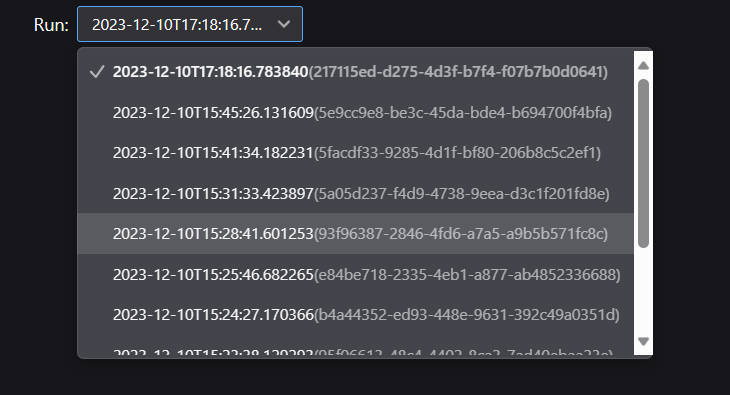
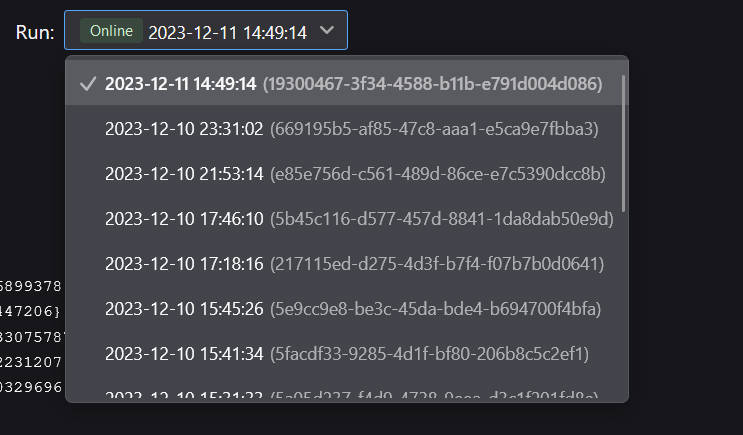
added name to runid

Changed region(s): [[0.0, 0.0, 0.9041, 0.9418]]

diff --git a/neetbox/_daemon/server/history/_db.py b/neetbox/_daemon/server/history/_db.py
@@ -9,7 +9,7 @@ from neetbox._daemon._protocol import *
 from neetbox.logging import logger
 from neetbox.logging.formatting import LogStyle
 
-logger = logger("NEETBOX HISTORY", LogStyle(skip_writers=["ws", "file"]))
+logger = logger("NEETBOX", LogStyle(skip_writers=["ws", "file"]))
 
 
 class QueryCondition:
@@ -171,7 +171,8 @@ class DBConnection:
         new_dbc = super().__new__(cls, **kwargs)
         # connect to sqlite
         new_dbc.connection = sqlite3.connect(path, check_same_thread=False, isolation_level=None)
-        new_dbc.connection.execute("pragma journal_mode=wal")
+        new_dbc.connection.execute("pragma journal_mode=wal")  # set journal mode WAL
+        new_dbc.connection.execute("PRAGMA foreign_keys = ON")  # enable foreign keys features
         new_dbc._inited_tables = collections.defaultdict(lambda: False)
         # check neetbox version
         _db_file_project_id = new_dbc.fetch_db_project_id(project_id)
@@ -262,7 +263,7 @@ class DBConnection:
 
     def fetch_id_of_run_id(self, run_id: str, timestamp: str = None):
         if not self._inited_tables[RUN_IDS_TABLE_NAME]:  # create if there is no version table
-            sql_query = f"CREATE TABLE IF NOT EXISTS {RUN_IDS_TABLE_NAME} ( {ID_COLUMN_NAME} INTEGER PRIMARY KEY AUTOINCREMENT, {RUN_ID_COLUMN_NAME} TEXT NON NULL, {TIMESTAMP_COLUMN_NAME} TEXT NON NULL, CONSTRAINT run_id_unique UNIQUE ({RUN_ID_COLUMN_NAME}));"
+            sql_query = f"CREATE TABLE IF NOT EXISTS {RUN_IDS_TABLE_NAME} ( {ID_COLUMN_NAME} INTEGER PRIMARY KEY AUTOINCREMENT, {RUN_ID_COLUMN_NAME} TEXT NON NULL, {TIMESTAMP_COLUMN_NAME} TEXT NON NULL, {NAME_COLUMN_NAME} TEXT, CONSTRAINT run_id_unique UNIQUE ({RUN_ID_COLUMN_NAME}));"
             self._execute(sql_query)
             self._inited_tables[RUN_IDS_TABLE_NAME] = True
         sql_query = f"SELECT {ID_COLUMN_NAME} FROM {RUN_IDS_TABLE_NAME} WHERE {RUN_ID_COLUMN_NAME} == '{run_id}'"
@@ -274,6 +275,21 @@ class DBConnection:
             return lastrowid
         return _id[0]
 
+    def fetch_name_of_run_id(self, run_id: str, name: str = None):
+        id = self.fetch_id_of_run_id(run_id=run_id)
+        if name:  # if update name
+            sql_query = (
+                f"UPDATE {RUN_IDS_TABLE_NAME} SET {NAME_COLUMN_NAME} = ? WHERE {ID_COLUMN_NAME} = ?"
+            )
+            _, _ = self._execute(sql_query, name, id)
+        # get name
+        sql_query = (
+            f"SELECT {NAME_COLUMN_NAME} FROM {RUN_IDS_TABLE_NAME} WHERE {ID_COLUMN_NAME} == {id}"
+        )
+        name, _ = self._query(sql_query, fetch=DbQueryFetchType.ONE)
+        name = name or run_id  # if does not have a name, use runid itself
+        return name
+
     def run_id_of_id(self, id_of_run_id):
         sql_query = f"SELECT {RUN_ID_COLUMN_NAME} FROM {RUN_IDS_TABLE_NAME} WHERE {ID_COLUMN_NAME} == {id_of_run_id}"
         run_id, _ = self._query(sql_query, fetch=DbQueryFetchType.ONE)
@@ -282,10 +298,14 @@ class DBConnection:
     def get_run_ids(self):
         if not self.table_exist(RUN_IDS_TABLE_NAME):
             raise RuntimeError("should not get run id of id before run id table creation")
-        sql_query = f"SELECT {RUN_ID_COLUMN_NAME},{TIMESTAMP_COLUMN_NAME} FROM {RUN_IDS_TABLE_NAME}"
+        sql_query = f"SELECT {RUN_ID_COLUMN_NAME},{TIMESTAMP_COLUMN_NAME},{NAME_COLUMN_NAME} FROM {RUN_IDS_TABLE_NAME}"
         result, _ = self._query(sql_query)
-        result = [(run_id, timestamp) for run_id, timestamp in result]
+        result = [(run_id, timestamp, name) for run_id, timestamp, name in result]
         return result
+
+    def delete_run_id(self, run_id: str):
+        sql_query = f"DELETE FROM {RUN_IDS_TABLE_NAME} where {RUN_ID_COLUMN_NAME} = ?"
+        _, _ = self._execute(sql_query, run_id)
 
     def get_series_of_table(self, table_name, run_id=None):
         if not self.table_exist(table_name):
@@ -313,7 +333,7 @@ class DBConnection:
         if run_id:
             run_id = self.fetch_id_of_run_id(run_id, timestamp=timestamp)
         if not self._inited_tables[table_name]:  # create if there is no version table
-            sql_query = f"CREATE TABLE IF NOT EXISTS {table_name} ( {ID_COLUMN_NAME} INTEGER PRIMARY KEY AUTOINCREMENT, {TIMESTAMP_COLUMN_NAME} TEXT NON NULL, {SERIES_COLUMN_NAME} TEXT, {RUN_ID_COLUMN_NAME} INTEGER, {JSON_COLUMN_NAME} TEXT NON NULL, FOREIGN KEY({RUN_ID_COLUMN_NAME}) REFERENCES {RUN_IDS_TABLE_NAME}({ID_COLUMN_NAME}));"
+            sql_query = f"CREATE TABLE IF NOT EXISTS {table_name} ( {ID_COLUMN_NAME} INTEGER PRIMARY KEY AUTOINCREMENT, {TIMESTAMP_COLUMN_NAME} TEXT NON NULL, {SERIES_COLUMN_NAME} TEXT, {RUN_ID_COLUMN_NAME} INTEGER, {JSON_COLUMN_NAME} TEXT NON NULL, FOREIGN KEY({RUN_ID_COLUMN_NAME}) REFERENCES {RUN_IDS_TABLE_NAME}({ID_COLUMN_NAME}) ON DELETE CASCADE);"
             self._execute(sql_query)
             sql_query = f"CREATE INDEX IF NOT EXISTS series_and_runid_index ON {table_name} ({SERIES_COLUMN_NAME}, {RUN_ID_COLUMN_NAME})"
             self._execute(sql_query)
@@ -351,7 +371,7 @@ class DBConnection:
         if run_id:
             run_id = self.fetch_id_of_run_id(run_id)
         if not self._inited_tables[STATUS_TABLE_NAME]:  # create if there is no version table
-            sql_query = f"CREATE TABLE IF NOT EXISTS {STATUS_TABLE_NAME} ({ID_COLUMN_NAME} INTEGER PRIMARY KEY,{RUN_ID_COLUMN_NAME} INTEGER NON NULL, {SERIES_COLUMN_NAME} TEXT NON NULL, {JSON_COLUMN_NAME} TEXT NON NULL, UNIQUE({RUN_ID_COLUMN_NAME}, {SERIES_COLUMN_NAME}) ON CONFLICT REPLACE, FOREIGN KEY({RUN_ID_COLUMN_NAME}) REFERENCES {RUN_IDS_TABLE_NAME}({ID_COLUMN_NAME}));"
+            sql_query = f"CREATE TABLE IF NOT EXISTS {STATUS_TABLE_NAME} ({ID_COLUMN_NAME} INTEGER PRIMARY KEY,{RUN_ID_COLUMN_NAME} INTEGER NON NULL, {SERIES_COLUMN_NAME} TEXT NON NULL, {JSON_COLUMN_NAME} TEXT NON NULL, UNIQUE({RUN_ID_COLUMN_NAME}, {SERIES_COLUMN_NAME}) ON CONFLICT REPLACE, FOREIGN KEY({RUN_ID_COLUMN_NAME}) REFERENCES {RUN_IDS_TABLE_NAME}({ID_COLUMN_NAME}) ON DELETE CASCADE);"
             self._execute(sql_query)
             self._inited_tables[STATUS_TABLE_NAME] = True
         sql_query = f"INSERT OR REPLACE INTO {STATUS_TABLE_NAME}({RUN_ID_COLUMN_NAME},{SERIES_COLUMN_NAME}, {JSON_COLUMN_NAME}) VALUES (?, ?, ?)"
@@ -396,8 +416,8 @@ class DBConnection:
         if isinstance(meta_data, dict):
             meta_data = json.dumps(meta_data)
 
-        if not self._inited_tables[table_name]:  # create if there is no version table
-            sql_query = f"CREATE TABLE IF NOT EXISTS {table_name} ( {ID_COLUMN_NAME} INTEGER PRIMARY KEY AUTOINCREMENT, {TIMESTAMP_COLUMN_NAME} TEXT NON NULL, {SERIES_COLUMN_NAME} TEXT, {RUN_ID_COLUMN_NAME} INTEGER, {METADATA_COLUMN_NAME} TEXT, {BLOB_COLUMN_NAME} BLOB NON NULL, FOREIGN KEY({RUN_ID_COLUMN_NAME}) REFERENCES {RUN_IDS_TABLE_NAME}({ID_COLUMN_NAME}));"
+        if not self._inited_tables[table_name]:  # create if not exist
+            sql_query = f"CREATE TABLE IF NOT EXISTS {table_name} ( {ID_COLUMN_NAME} INTEGER PRIMARY KEY AUTOINCREMENT, {TIMESTAMP_COLUMN_NAME} TEXT NON NULL, {SERIES_COLUMN_NAME} TEXT, {RUN_ID_COLUMN_NAME} INTEGER, {METADATA_COLUMN_NAME} TEXT, {BLOB_COLUMN_NAME} BLOB NON NULL, FOREIGN KEY({RUN_ID_COLUMN_NAME}) REFERENCES {RUN_IDS_TABLE_NAME}({ID_COLUMN_NAME}) ON DELETE CASCADE);"
             self._execute(sql_query)
             sql_query = f"CREATE INDEX IF NOT EXISTS series_and_runid_index ON {table_name} ({SERIES_COLUMN_NAME}, {RUN_ID_COLUMN_NAME})"
             self._execute(sql_query)

diff --git a/neetbox/_daemon/server/_flask_server.py b/neetbox/_daemon/server/_flask_server.py
@@ -11,22 +11,23 @@ from threading import Thread
 from typing import Union
 
 import werkzeug
-
-werkzeug_log = logging.getLogger("werkzeug")
-werkzeug_log.setLevel(logging.ERROR)  # disable flask http call logs
 from flask import Response, abort, json, redirect, request, send_from_directory
 
 from neetbox._daemon._protocol import *
 from neetbox._daemon.server._bridge import Bridge
-from neetbox.logging import LogStyle, logger
 
 from .history import *
 
-__PROC_NAME = "NEETBOX SERVER"
-logger = logger(__PROC_NAME, LogStyle(skip_writers=["ws"]))
+werkzeug_log = logging.getLogger("werkzeug")
+werkzeug_log.setLevel(logging.ERROR)  # disable flask http call logs
 
 
 def get_flask_server(debug=False):
+    __PROC_NAME = "NEETBOX"
+    from neetbox.logging import LogStyle, logger
+
+    logger = logger(__PROC_NAME, LogStyle(skip_writers=["ws"]))
+
     if debug:
         logger.log(f"Running with debug, using APIFlask")
         from apiflask import APIFlask
@@ -67,7 +68,7 @@ def get_flask_server(debug=False):
 
     def _project_status_from_bridge(bridge: Bridge):
         status = bridge.get_status()
-        last_run_id = bridge.get_run_ids()[0][0]
+        last_run_id = bridge.get_run_ids()[-1][0]
         config_last_run = bridge.get_status(run_id=last_run_id, series="config")
         return {
             PROJECT_ID_KEY: bridge.project_id,
@@ -105,13 +106,6 @@ def get_flask_server(debug=False):
             condition=request.args.get("condition"),
         )
 
-    @app.route(f"{FRONTEND_API_ROOT}/project/<project_id>/run/<run_id>", methods=["GET"])
-    def get_status_of(project_id, run_id):
-        if not Bridge.has(project_id):
-            abort(404)
-        result = Bridge.of_id(project_id).get_status(run_id=run_id)
-        return result
-
     @app.route(f"{FRONTEND_API_ROOT}/project/<project_id>/series/<table_name>", methods=["GET"])
     def get_series_list_of(project_id: str, table_name: str):  # client side function
         if not Bridge.has(project_id):
@@ -126,8 +120,31 @@ def get_flask_server(debug=False):
         if not Bridge.has(project_id):
             abort(404)
         result = Bridge.of_id(project_id).get_run_ids()
-        result = [{"id": r[0], "timestamp": r[1]} for r in result]
+        result = [{ID_KEY: r[0], TIMESTAMP_KEY: r[1], NAME_KEY: r[2]} for r in result]
         return result
+
+    @app.route(f"{FRONTEND_API_ROOT}/project/<project_id>/run/<run_id>", methods=["GET"])
+    def get_status_of(project_id, run_id):
+        if not Bridge.has(project_id):
+            abort(404, {ERROR_KEY: "project id not found"})
+        result = Bridge.of_id(project_id).get_status(run_id=run_id)
+        return result
+
+    @app.route(f"{FRONTEND_API_ROOT}/project/<project_id>/run/<run_id>", methods=["PUT"])
+    def set_get_name_of_run_id(project_id: str, run_id: str):
+        name = request.json.get("name")
+        bridge = Bridge.of_id(project_id)
+        name = bridge.historyDB.fetch_name_of_run_id(run_id=run_id, name=name)
+        return {RESULT_KEY: "success"}
+
+    @app.route(f"{FRONTEND_API_ROOT}/project/<project_id>/run/<run_id>", methods=["DELETE"])
+    def delete_run_id(project_id: str, run_id: str):
+        bridge = Bridge.of_id(project_id)
+        last_run_id = bridge.get_run_ids()[-1][0]
+        if run_id == last_run_id:  # cannot delete running projects
+            abort(400, {ERROR_KEY: "can only delete history run id."})
+        bridge.historyDB.delete_run_id(run_id)
+        return {RESULT_KEY: "success"}
 
     @app.route(f"/image/<project_id>", methods=["POST"])
     def upload_image(project_id):
@@ -194,6 +211,6 @@ def get_flask_server(debug=False):
 
         Thread(target=__sleep_and_shutdown).start()  # shutdown after 3 seconds
         logger.log(f"BYE.")
-        return f"shutdown in 1 seconds."
+        return {RESULT_KEY: f"shutdown in 1 seconds."}
 
     return app

diff --git a/neetbox/client/_writers/_image.py b/neetbox/client/_writers/_image.py
@@ -1,3 +1,9 @@
+# -*- coding: utf-8 -*-
+#
+# Author: GavinGong aka VisualDust
+# URL:    https://gong.host
+# Date:   20231211
+
 import io
 from typing import Optional
 
@@ -9,7 +15,6 @@ from neetbox._daemon._protocol import *
 from neetbox._daemon.client._client import connection
 from neetbox.config import get_project_id, get_run_id
 from neetbox.logging import logger
-from neetbox.utils.massive import nonblocking
 from neetbox.utils.x2numpy import *
 
 # ===================== IMAGE things ===================== #
@@ -173,53 +178,3 @@ def add_figure(
         add_image(image=figure_to_image(figure, close), dataformats="NCHW")
     else:
         add_image(image=figure_to_image(figure, close), dataformats="CHW")
-
-
-# ===================== PLOTTING things ===================== #
-
-
-def add_scalar(name: str, x: Union[int, float], y: Union[int, float]):
-    """send a scalar to frontend display
-
-    Args:
-        name (str): name of the image, used in frontend display
-        x (Union[int, float]): x
-        y (Union[int, float]): y
-    """
-    # send
-    connection.ws_send(
-        event_type=EVENT_TYPE_NAME_SCALAR, payload={SERIES_KEY: name, "x": x, "y": y}
-    )
-
-
-def add_hist(name: str, data: Union[int, float], mode: str="scalar", **kwargs):
-    """send a histogram figure to frontend display
-
-    Args:
-        name (str): name of the hist, used in frontend display
-        x (Union[int, float]): x
-        y (Union[int, float]): y
-    """
-    if mode == "scalar":
-        # send
-        connection.ws_send(
-            event_type=EVENT_TYPE_NAME_HIST, payload={SERIES_KEY: name, "data": data}
-        )
-    elif mode == "image":
-        try:
-            import matplotlib.pyplot as plt
-        except ModuleNotFoundError:
-            print("please install matplotlib")
-
-        fig = plt.figure()
-        plt.hist(data, **kwargs)
-        add_figure(fig, close=True)
-    else:
-        raise ValueError(f"mode {mode} not supported")
-
-
-# ===================== HYPERPARAM things ===================== #
-
-
-def add_hyperparams(name: str, value: dict):
-    connection.ws_send(event_type=EVENT_TYPE_NAME_HPARAMS, payload={name: value})

diff --git a/neetbox/client/_writers/_plot.py b/neetbox/client/_writers/_plot.py
@@ -1,0 +1,47 @@
+# -*- coding: utf-8 -*-
+#
+# Author: GavinGong aka VisualDust
+# URL:    https://gong.host
+# Date:   20231211
+
+from typing import Optional
+
+import numpy as np
+
+from neetbox._daemon._protocol import *
+from neetbox._daemon.client._client import connection
+from neetbox.utils.x2numpy import *
+
+# ===================== PLOTTING things ===================== #
+
+
+# @dataclass
+# class PlotType(str, Enum):
+#     LineChart = "linechart"
+#     AreaChart = "areachart"
+#     Histogram = 'histogram'
+
+# @dataclass
+# class PlottingPayload:
+#     pass
+
+
+def add_scalar(name: str, x: Union[int, float], y: Union[int, float]):
+    """send a scalar to frontend display
+
+    Args:
+        name (str): name of the image, used in frontend display
+        x (Union[int, float]): x
+        y (Union[int, float]): y
+    """
+    # send
+    connection.ws_send(
+        event_type=EVENT_TYPE_NAME_SCALAR, payload={SERIES_KEY: name, "x": x, "y": y}
+    )
+
+
+# ===================== HYPERPARAM things ===================== #
+
+
+def add_hyperparams(name: str, value: dict):
+    connection.ws_send(event_type=EVENT_TYPE_NAME_HPARAMS, payload={name: value})

diff --git a/neetbox/_daemon/server/_websocket_server.py b/neetbox/_daemon/server/_websocket_server.py
@@ -21,8 +21,8 @@ def get_web_socket_server(config, debug=False):
     from neetbox._daemon.server._bridge import Bridge
     from neetbox.logging import LogStyle, logger
 
+    logger = logger("NEETBOX", LogStyle(skip_writers=["ws"]))
     console = Console()
-    logger = logger("NEETBOX SERVER", LogStyle(skip_writers=["ws"]))
     ws_server = WebsocketServer(host="0.0.0.0", port=config["port"] + 1)
     connected_clients: Dict(
         int, Tuple(str, IdentityType)

diff --git a/neetbox/client/__init__.py b/neetbox/client/__init__.py
@@ -6,7 +6,8 @@
 
 from ._client_action_agent import _NeetActionManager as NeetActionManager
 from ._signal_and_slot import listen, watch
-from ._writer import add_figure, add_hyperparams, add_image, add_scalar
+from ._writers._image import add_figure, add_image
+from ._writers._plot import add_hyperparams, add_scalar
 
 action = NeetActionManager.register
 

diff --git a/neetbox/_daemon/_protocol.py b/neetbox/_daemon/_protocol.py
@@ -116,7 +116,7 @@ CLIENT_API_ROOT = "/cli"
 # === COLUMN NAMES ===
 ID_COLUMN_NAME = ID_KEY
 TIMESTAMP_COLUMN_NAME = TIMESTAMP_KEY
-NAME_COLUMN_KEY = SERIES_COLUMN_NAME = SERIES_KEY
+NAME_COLUMN_NAME = SERIES_COLUMN_NAME = SERIES_KEY
 RUN_ID_COLUMN_NAME = RUN_ID_KEY
 JSON_COLUMN_NAME = METADATA_COLUMN_NAME = METADATA_KEY
 BLOB_COLUMN_NAME = "data"

diff --git a/neetbox/_daemon/server/_bridge.py b/neetbox/_daemon/server/_bridge.py
@@ -14,8 +14,7 @@ from neetbox.logging import LogStyle, logger
 
 from .history import *
 
-__PROC_NAME = "NEETBOX SERVER"
-logger = logger(__PROC_NAME, LogStyle(skip_writers=["ws"]))
+logger = logger("NEETBOX", LogStyle(skip_writers=["ws"]))
 
 
 class Bridge:
